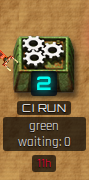
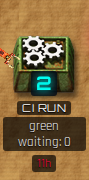
fix(monitor): row 2 inserters load on the upstream side of the belt
Ben: "on row 2 you've got the inserters placed wrong - when you reversed
the belts you've got to make sure the inserters are placing on the start
and removing at the end." Row 2 is row-reversed but each arrow's own
inserter/belt/inserter row was not, so the loading inserter sat on the
left of the belt - the downstream side. Mirrored the arrow in row 2 so the
loading inserter is on the right, beside the stage it loads from.

Test: loading inserter is left of the belt in row 1, right of it in row 2.

Claude-Session: https://claude.ai/code/session_015a21LH9eqkn4oZydkWAQ3i

Changed region(s): [[0.0, 0.25, 0.2247, 0.3889]]

diff --git a/tests/dashboard-truth/factorio-belts-evidence.py b/tests/dashboard-truth/factorio-belts-evidence.py
@@ -230,6 +230,20 @@ with sync_playwright() as p:
     row2 = ['gate verdicts', 'conflicted', 'resolved', 'approved', 'in line', 'merged today']
     assert [flows_up(sq) for sq in row1] == [False, True, False, True, False, True], [(sq, flows_up(sq)) for sq in row1]
     assert [flows_up(sq) for sq in row2] == [True, False, True, False, True, False], [(sq, flows_up(sq)) for sq in row2]
+    # Ben: "the inserters are placing on the start and removing at the end"
+    # - the loading inserter (DOM-first) sits on the upstream stage's side of
+    # the belt: left of it in row 1 (flows left-to-right), RIGHT of it in the
+    # row-reversed row 2.
+    def load_side(square):
+        arrow = page.locator('.ship-arrow[data-square-left="' + square + '"]')
+        load = arrow.locator('> .ship-inserter').nth(0).bounding_box()
+        belt = arrow.locator('.ship-belt').bounding_box()
+        return 'right' if load['x'] > belt['x'] else 'left'
+    for sq in row1:
+        assert load_side(sq) == 'left', (sq, 'row 1 loading inserter must be left of the belt')
+    for sq in row2:
+        assert load_side(sq) == 'right', (sq, 'row 2 loading inserter must be right of the belt')
+
     # Row-end belts always carry work DOWN to the next row.
     for sq in ('in review', 'folded'):
         assert not flows_up(sq), (sq, 'row-end belt must flow down')

diff --git a/queue_router.py b/queue_router.py
@@ -7665,6 +7665,11 @@ gap:0;padding:2px 0;align-self:center;align-items:center}
    rather than floating at the belt's midpoint. */
 .ship-inserter.align-top{align-self:flex-start}
 .ship-inserter.align-bottom{align-self:flex-end}
+/* Ben: row 2 flows right-to-left, so its loading inserter (DOM-first) must
+   sit on the RIGHT of the belt, beside the stage it loads from, and the
+   unloading one on the left - mirror the arrow's own row to match the
+   row-reversed row it sits in. */
+.ship-row-2 .ship-arrow-vbelt{flex-direction:row-reverse}
 /* The belt itself: a scrolling texture tile carrying the order-17 item
    chain. State is rendered, never captioned - order 9's "hover is where the
    numbers live" (native title attr on the arrow, unchanged). LORE order 17
